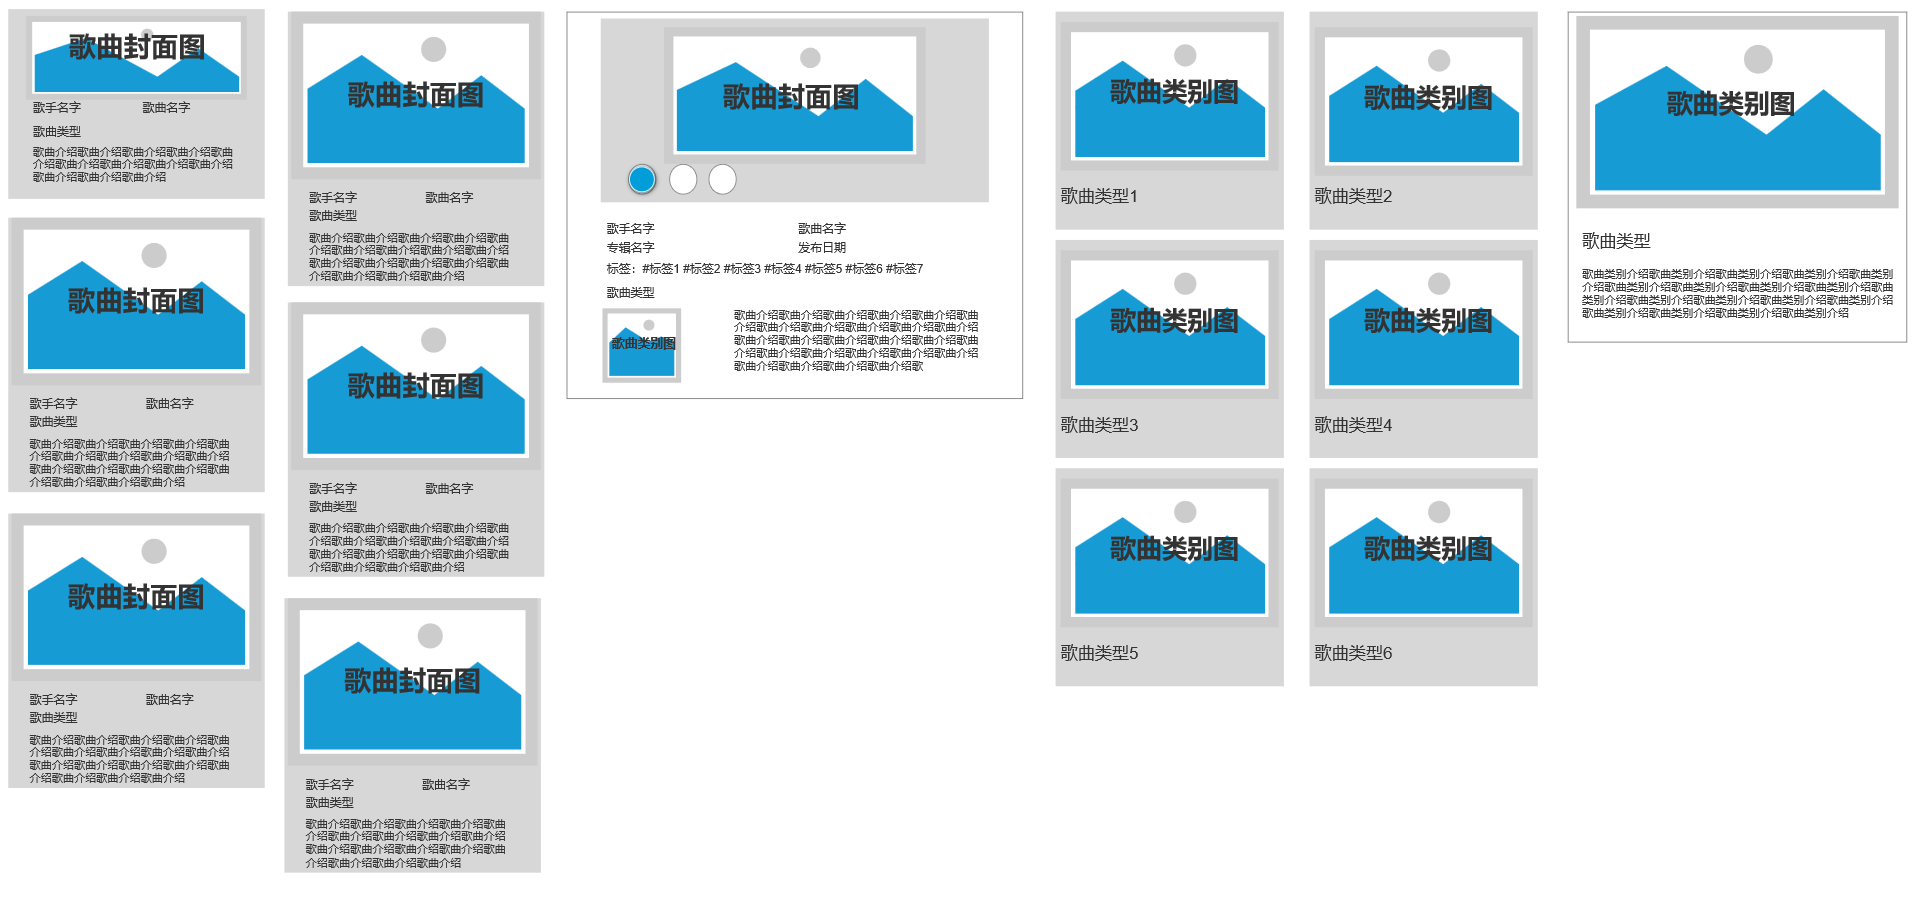
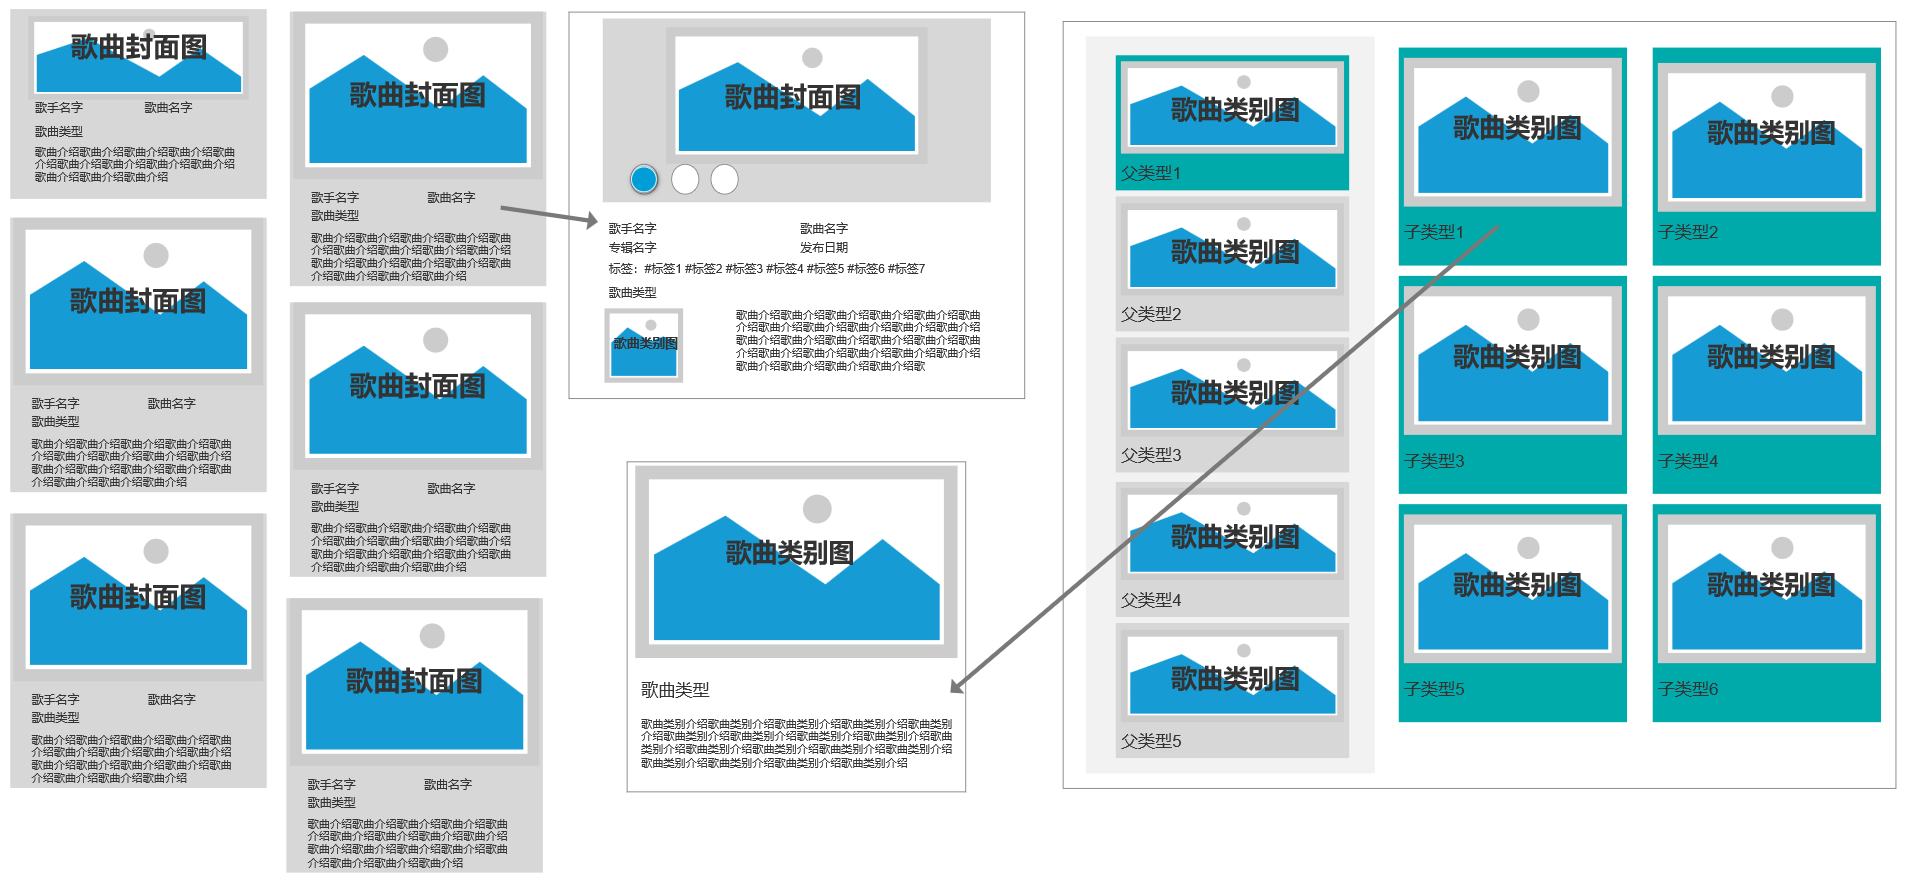
V3.1 加入标签业务;分类增加父子关系 [1] console端里music修改新增和修改，增加一个标签的 参数，tags--"A$B$C$D" [2] console端里music修改详情，展示对应的标签，列表形式。 [3] console端里tag的列表、详情、新增、修改、删除 [4] app端的详情接口，增加返回Music的标签，列表形式

diff --git a/console/src/main/java/com/beat/mall/console/controller/category/CategoryController.java b/console/src/main/java/com/beat/mall/console/controller/category/CategoryController.java
@@ -1,5 +1,6 @@
 package com.beat.mall.console.controller.category;
 
+import com.beat.mall.console.domain.category.CategoryChildrenListVO;
 import com.beat.mall.console.domain.category.CategoryInfoVO;
 import com.beat.mall.console.domain.category.CategoryListFeedVO;
 import com.beat.mall.console.domain.category.CategoryListVO;
@@ -37,9 +38,27 @@ public class CategoryController {
         List<Category> categories = categoryService.getAllCategory();
         List<CategoryListVO> list = new ArrayList<>();
         for (Category category : categories) {
+            List<Long> childrenIds = categoryService.getChildrenById(category.getId());
+            List<CategoryChildrenListVO> categoryChildrenListVOS = new ArrayList<>();
+            for (Long childId : childrenIds) {
+                Category child = null;
+                try {
+                    child = categoryService.getById(childId);
+                } catch (Exception e) {
+                    log.error("cannot find the current childId:{}", child, e);
+                }
+                //当前child未找到跳过
+                if (child == null) {
+                    continue;
+                }
+                categoryChildrenListVOS.add(new CategoryChildrenListVO()
+                        .setTypeName(child.getTypeName())
+                        .setTypeImage(child.getTypeImage()));
+            }
             CategoryListVO categoryListVO = new CategoryListVO()
                     .setTypeName(category.getTypeName())
-                    .setTypeImage(category.getTypeImage());
+                    .setTypeImage(category.getTypeImage())
+                    .setChildren(categoryChildrenListVOS);
             list.add(categoryListVO);
         }
         CategoryListFeedVO categoryListFeedVO = new CategoryListFeedVO()
@@ -57,25 +76,44 @@ public class CategoryController {
         }
         if (category == null) {
             log.info("id不存在");
-            return null;
+            return new Response<>(3052, "id不存在");
+        }
+        List<Long> childrenIds = categoryService.getChildrenById(id);
+        List<CategoryChildrenListVO> categoryChildrenListVOS = new ArrayList<>();
+        for (Long childId : childrenIds) {
+            Category child = null;
+            try {
+                child = categoryService.getById(childId);
+            } catch (Exception e) {
+                log.error("cannot find the current childId:{}", child, e);
+            }
+            //当前child未找到跳过
+            if (child == null) {
+                continue;
+            }
+            categoryChildrenListVOS.add(new CategoryChildrenListVO()
+                    .setTypeName(child.getTypeName())
+                    .setTypeImage(child.getTypeImage()));
         }
         CategoryInfoVO categoryInfoVO = new CategoryInfoVO()
                 .setTypeName(category.getTypeName())
                 .setTypeImage(category.getTypeImage())
-                .setTypeDesc(category.getTypeDesc());
+                .setTypeDesc(category.getTypeDesc())
+                .setChildren(categoryChildrenListVOS);
         return new Response<>(1001, categoryInfoVO);
     }
 
     @RequestMapping("/category/create")
     public Response categoryCreate(@RequestParam(value = "typeName", required = false) String typeName,
                                    @RequestParam(value = "typeImage", required = false) String typeImage,
-                                   @RequestParam(value = "typeDesc", defaultValue = "暂无描述") String typeDesc) {
+                                   @RequestParam(value = "typeDesc", defaultValue = "暂无描述") String typeDesc,
+                                   @RequestParam(value = "parentId", required = false) Long parentId) {
         Long id = null;
         String res = "";
         typeName = typeName == null ? typeName : typeName.trim();
         typeImage = typeImage == null ? typeImage : typeImage.trim();
         try {
-            id = categoryService.edit(null, typeName, typeImage, typeDesc);
+            id = categoryService.edit(null, typeName, typeImage, typeDesc, parentId);
         } catch (Exception e) {
             res = "typeName typeImage 等字段不能为空";
             log.error("typeName and typeImage cannot be null", e);
@@ -92,12 +130,13 @@ public class CategoryController {
     public Response categoryUpdate(@RequestParam(value = "id") Long id,
                                    @RequestParam(value = "typeName", required = false) String typeName,
                                    @RequestParam(value = "typeImage", required = false) String typeImage,
-                                   @RequestParam(value = "typeDesc", required = false) String typeDesc) {
+                                   @RequestParam(value = "typeDesc", required = false) String typeDesc,
+                                   @RequestParam(value = "parentId", required = false) Long parentId) {
         String res = "成功";
         typeName = typeName == null ? typeName : typeName.trim();
         typeImage = typeImage == null ? typeImage : typeImage.trim();
         try {
-            categoryService.edit(id, typeName, typeImage, typeDesc);
+            categoryService.edit(id, typeName, typeImage, typeDesc, parentId);
         } catch (Exception e) {
             res = "typeName typeImage 等字段不能为空";
             log.error("typeName and typeImage cannot be null", e);

diff --git a/module/src/main/java/com/beat/mall/module/category/service/CategoryService.java b/module/src/main/java/com/beat/mall/module/category/service/CategoryService.java
@@ -43,7 +43,7 @@ public class CategoryService {
         return categoryMapper.getAllCategory();
     }
 
-    public Long create(String typeName, String typeImage, String typeDesc) throws Exception {
+    public Long create(String typeName, String typeImage, String typeDesc, Long parentId) throws Exception {
         if (typeName == null) {
             throw new RuntimeException("typeName cannot be null!");
         }
@@ -57,12 +57,13 @@ public class CategoryService {
                 .setTypeDesc(typeDesc)
                 .setCreateTime(timeStamp)
                 .setUpdateTime(timeStamp)
-                .setIsDeleted(0);
+                .setIsDeleted(0)
+                .setParentId(parentId);
         categoryMapper.insert(category);
         return category.getId();
     }
 
-    public Long update(Long id, String typeName, String typeImage, String typeDesc) throws Exception {
+    public Long update(Long id, String typeName, String typeImage, String typeDesc, Long parentId) throws Exception {
         if (id == null) {
             throw new RuntimeException("id cannot be null!");
         }
@@ -73,22 +74,23 @@ public class CategoryService {
                 .setTypeImage(typeImage)
                 .setTypeDesc(typeDesc)
                 .setUpdateTime(timeStamp)
-                .setIsDeleted(0);
+                .setIsDeleted(0)
+                .setParentId(parentId);
         if (extractById(id) == null) {
             throw new RuntimeException("cannot find the id");
         }
         return (long) categoryMapper.update(category);
     }
 
-    public Long edit(Long id, String typeName, String typeImage, String typeDesc) throws Exception {
+    public Long edit(Long id, String typeName, String typeImage, String typeDesc, Long parentId) throws Exception {
         Long res;
         if (id != null) {
-            res = update(id, typeName, typeImage, typeDesc);
+            res = update(id, typeName, typeImage, typeDesc, parentId);
             if (res == 0) {
                 throw new RuntimeException("update fail!");
             }
         } else {
-            res = create(typeName, typeImage, typeDesc);
+            res = create(typeName, typeImage, typeDesc, parentId);
             if (res == null) {
                 throw new RuntimeException("create fail!");
             }
@@ -102,5 +104,9 @@ public class CategoryService {
         }
         int timeStamp = (int) (System.currentTimeMillis() / 1000);
         return categoryMapper.delete(timeStamp, id);
+    }
+
+    public List<Long> getChildrenById(Long id) {
+        return categoryMapper.getChildrenById(id);
     }
 }

diff --git a/app/src/main/java/com/beat/mall/app/controller/category/CategoryController.java b/app/src/main/java/com/beat/mall/app/controller/category/CategoryController.java
@@ -1,5 +1,6 @@
 package com.beat.mall.app.controller.category;
 
+import com.beat.mall.app.domain.category.CategoryChildrenListVO;
 import com.beat.mall.app.domain.category.CategoryListFeedVO;
 import com.beat.mall.app.domain.category.CategoryListVO;
 import com.beat.mall.module.category.entity.Category;
@@ -33,9 +34,27 @@ public class CategoryController {
         List<Category> categories = categoryService.getAllCategory();
         List<CategoryListVO> list = new ArrayList<>();
         for (Category category : categories) {
+            List<Long> childrenIds = categoryService.getChildrenById(category.getId());
+            List<CategoryChildrenListVO> categoryChildrenListVOS = new ArrayList<>();
+            for (Long childId : childrenIds) {
+                Category child = null;
+                try {
+                    child = categoryService.getById(childId);
+                } catch (Exception e) {
+                    log.error("cannot find the current childId:{}", child, e);
+                }
+                //当前child未找到跳过
+                if (child == null) {
+                    continue;
+                }
+                categoryChildrenListVOS.add(new CategoryChildrenListVO()
+                        .setTypeName(child.getTypeName())
+                        .setTypeImage(child.getTypeImage()));
+            }
             CategoryListVO categoryListVO = new CategoryListVO()
                     .setTypeName(category.getTypeName())
-                    .setTypeImage(category.getTypeImage());
+                    .setTypeImage(category.getTypeImage())
+                    .setChildren(categoryChildrenListVOS);
             list.add(categoryListVO);
         }
         CategoryListFeedVO categoryListFeedVO = new CategoryListFeedVO()

diff --git a/app/src/main/java/com/beat/mall/app/domain/category/CategoryChildrenListVO.java b/app/src/main/java/com/beat/mall/app/domain/category/CategoryChildrenListVO.java
@@ -1,14 +1,11 @@
-package com.beat.mall.console.domain.category;
+package com.beat.mall.app.domain.category;
 
 import lombok.Data;
 import lombok.experimental.Accessors;
 
-import java.util.List;
-
 @Data
 @Accessors(chain = true)
-public class CategoryListVO {
+public class CategoryChildrenListVO {
     private String typeName;
     private String typeImage;
-    private List<CategoryChildrenListVO> children;
 }

diff --git a/console/src/main/java/com/beat/mall/console/domain/category/CategoryChildrenListVO.java b/console/src/main/java/com/beat/mall/console/domain/category/CategoryChildrenListVO.java
@@ -3,13 +3,9 @@ package com.beat.mall.console.domain.category;
 import lombok.Data;
 import lombok.experimental.Accessors;
 
-import java.util.List;
-
 @Data
 @Accessors(chain = true)
-public class CategoryInfoVO {
+public class CategoryChildrenListVO {
     private String typeName;
     private String typeImage;
-    private String typeDesc;
-    private List<CategoryChildrenListVO> children;
 }

diff --git a/app/src/main/java/com/beat/mall/app/domain/category/CategoryListVO.java b/app/src/main/java/com/beat/mall/app/domain/category/CategoryListVO.java
@@ -3,9 +3,12 @@ package com.beat.mall.app.domain.category;
 import lombok.Data;
 import lombok.experimental.Accessors;
 
+import java.util.List;
+
 @Data
 @Accessors(chain = true)
 public class CategoryListVO {
     private String typeName;
     private String typeImage;
+    private List<CategoryChildrenListVO> children;
 }

diff --git a/module/src/main/java/com/beat/mall/module/category/mapper/CategoryMapper.java b/module/src/main/java/com/beat/mall/module/category/mapper/CategoryMapper.java
@@ -28,4 +28,7 @@ public interface CategoryMapper {
     Long insert(@Param("category") Category category);
 
     Integer delete(@Param("time") Integer time, @Param("id") Long id);
+
+    @Select("select id from category where parent_id=#{id}")
+    List<Long> getChildrenById(@Param("id") Long id);
 }

diff --git a/module/src/main/java/com/beat/mall/module/category/entity/Category.java b/module/src/main/java/com/beat/mall/module/category/entity/Category.java
@@ -13,4 +13,5 @@ public class Category {
     private Integer createTime;
     private Integer updateTime = (int) (System.currentTimeMillis() / 1000);
     private Integer isDeleted;
+    private Long parentId;
 }

diff --git a/doc/项目：音乐卡片接口文档V3.0.md b/doc/项目：音乐卡片接口文档V3.0.md
@@ -77,7 +77,14 @@ id:[Long]
     list:[
         {
             typeName:[String],
-            typeImage:[String]
+            typeImage:[String],
+            children:[
+                {
+                    typeName:[String],
+                    typeImage:[String]
+                }
+                
+            ]
         }
     ]
 }
@@ -323,7 +330,14 @@ id:[Long]
     list:[
         {
             typeName:[String],
-            typeImage:[String]
+            typeImage:[String],
+            children:[
+                {
+                    typeName:[String],
+                    typeImage:[String]
+                }
+                
+        	]
         }
     ]
 }
@@ -343,7 +357,14 @@ id:[Long]
 {
     typeName:[String],
     typeImage:[String],
-    typeDesc:[String]
+    typeDesc:[String],
+    children:[
+                {
+                    typeName:[String],
+                    typeImage:[String]
+                }
+                
+    ]
 }
 ```
 
@@ -358,6 +379,8 @@ typeName:[String]
 typeImage:[String]
 
 typeDesc:[String]
+
+parentId:[Long],(required = false)
 
 返回：
 
@@ -376,6 +399,8 @@ typeName:[String]
 typeImage:[String]
 
 typeDesc:[String]
+
+parentId:[Long],(required = false)
 
 返回：
 
@@ -576,9 +601,11 @@ CREATE TABLE `category` (
   `create_time` int(10) unsigned NOT NULL,
   `update_time` int(10) unsigned NOT NULL,
   `is_deleted` tinyint(1) unsigned NOT NULL DEFAULT '0',
+  `parent_id` bigint(20) unsigned DEFAULT '0' COMMENT '父分类ID，0表示一级分类',
   PRIMARY KEY (`id`),
-  KEY `idx_type_name` (`type_name`)
-) ENGINE=InnoDB AUTO_INCREMENT=1 DEFAULT CHARSET=utf8mb4 COLLATE=utf8mb4_unicode_ci COMMENT='音乐类型表' 
+  KEY `idx_type_name` (`type_name`),
+  KEY `idx_parent_id` (`parent_id`)
+) ENGINE=InnoDB AUTO_INCREMENT=1 DEFAULT CHARSET=utf8mb4 COLLATE=utf8mb4_unicode_ci COMMENT='音乐类型表'
 ```
 
 ```mysql
